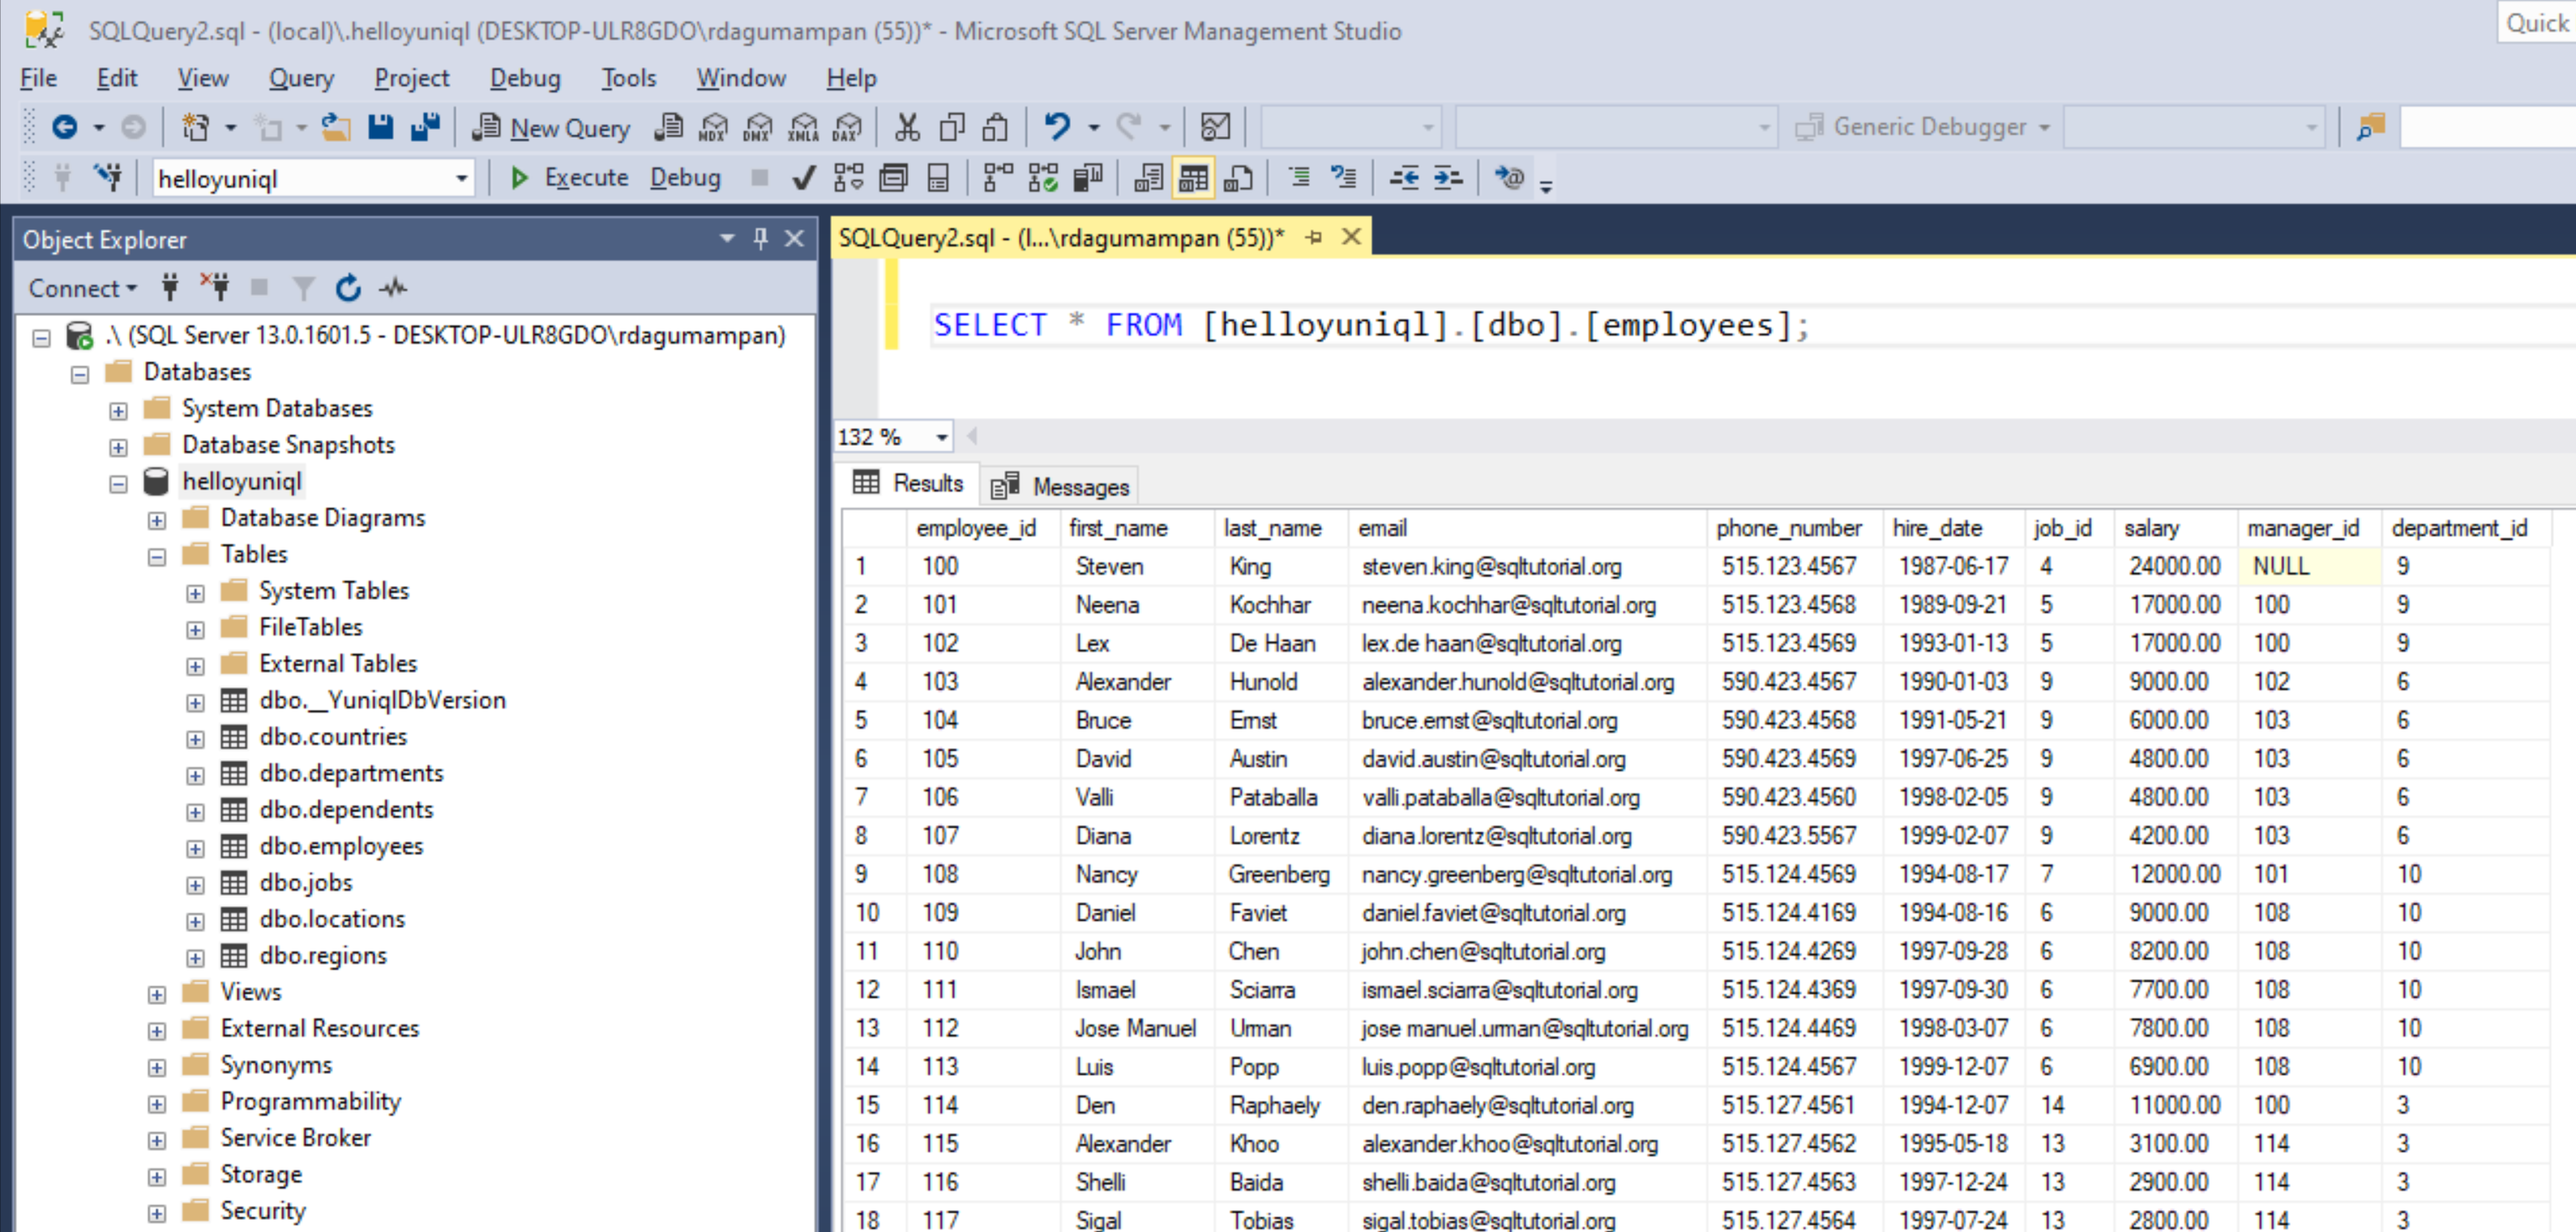
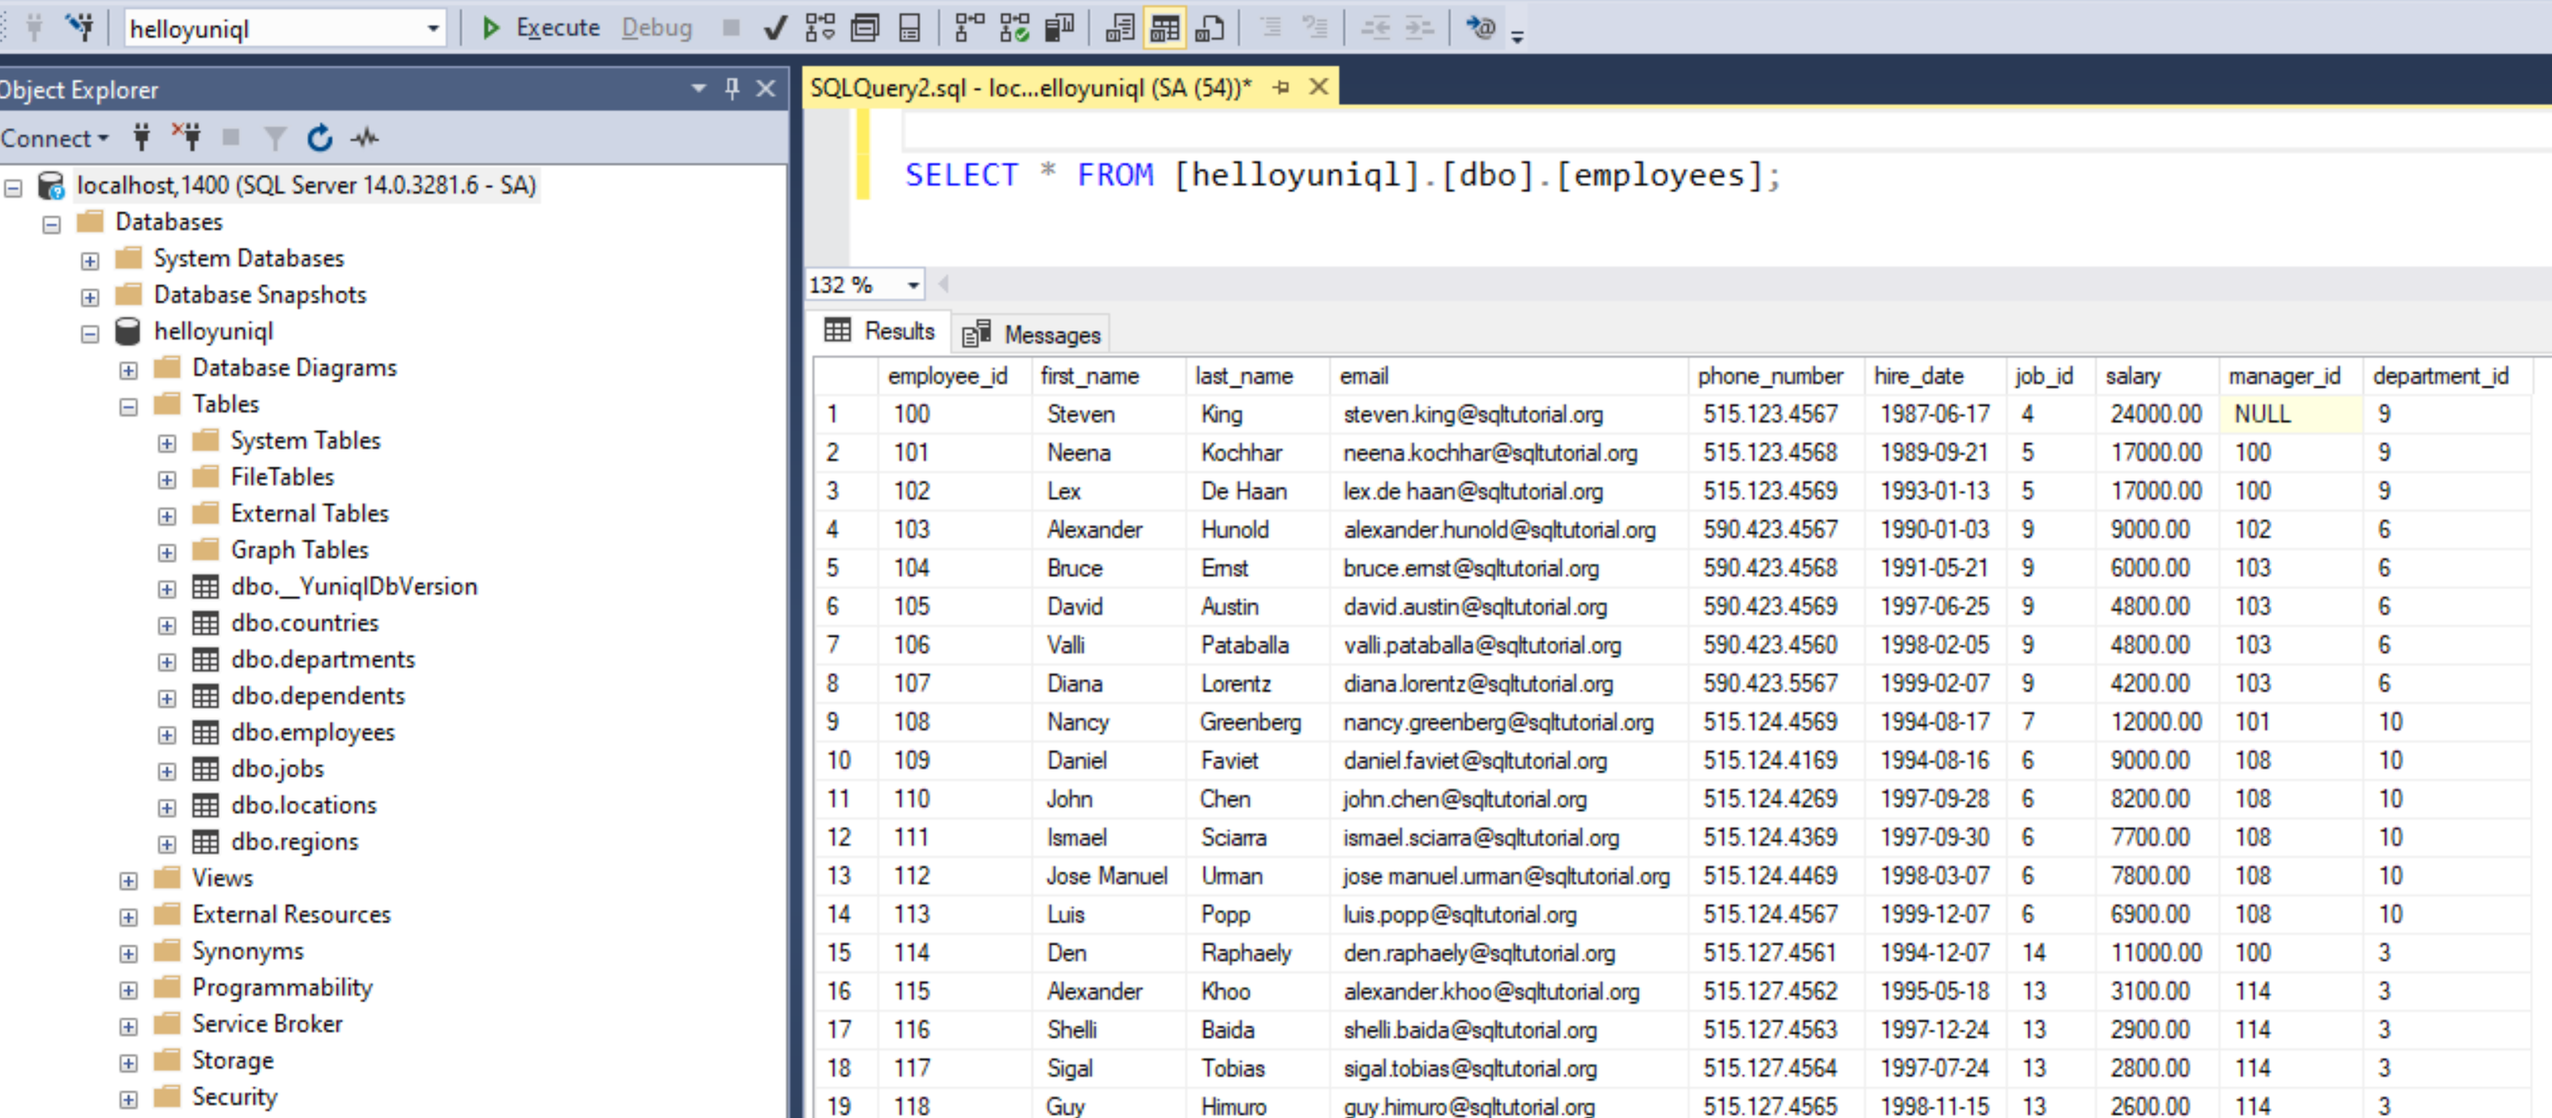
Update getting started doc

diff --git a/content/docs/get-started.md b/content/docs/get-started.md
@@ -20,10 +20,11 @@ git clone https://github.com/rdagumampan/yuniql.git c:\temp\yuniql-getstarted
 cd c:\temp\yuniql-getstarted\samples\basic-sqlserver-sample
 ```
 
-Prepare your connection string in an environment variable. This demo uses local SQL Server default instance. For more connection string samples, visit https://www.connectionstrings.com/sql-server/.
+Prepare your connection string in an environment variable. This sample uses SQL Server on Docker container and you may also use your local default instance. For more connection string samples, visit https://www.connectionstrings.com/sql-server/.
 
 ```shell
-SETX YUNIQL_CONNECTION_STRING "Server=.\;Database=helloyuniql;Trusted_Connection=True;"
+docker run -e "ACCEPT_EULA=Y" -e "MSSQL_SA_PASSWORD=P@ssw0rd!" -p 1400:1433 -d mcr.microsoft.com/mssql/server:2017-latest
+SETX YUNIQL_CONNECTION_STRING "Server=localhost,1400;Database=helloyuniql;User Id=SA;Password=P@ssw0rd!"
 ```
 
 Apply migrations with `yuniql run`. Yuniql discovers the project directory, creates the target database if it doesn't exist and runs all migration steps in the order they are listed. These includes `.sql` files, directories, subdirectories, and csv files. Tokens are also replaced via `-k` parameters.

diff --git a/content/docs/get-started-postgresql.md b/content/docs/get-started-postgresql.md
@@ -1,7 +1,7 @@
 +++
-title = "Work with PosgtreSql and Others"
+title = "PosgtreSql, MySql and Others"
 description = "A quick-start guide to PostgreSql and other platforms. Install, run, verify."
-bref = "A quick-start guide to working with PostgreSql and other platforms. Install, run, verify. 10-mins capped. Run these commands line by line via Command Prompt (CMD)."
+bref = "A quick-start guide to working with PostgreSql and other platforms. Install, run, verify. 10-mins capped. Run these commands line by line via CLI tool like CMD, Powershell, Bash."
 weight = 3
 draft = false
 toc = false
